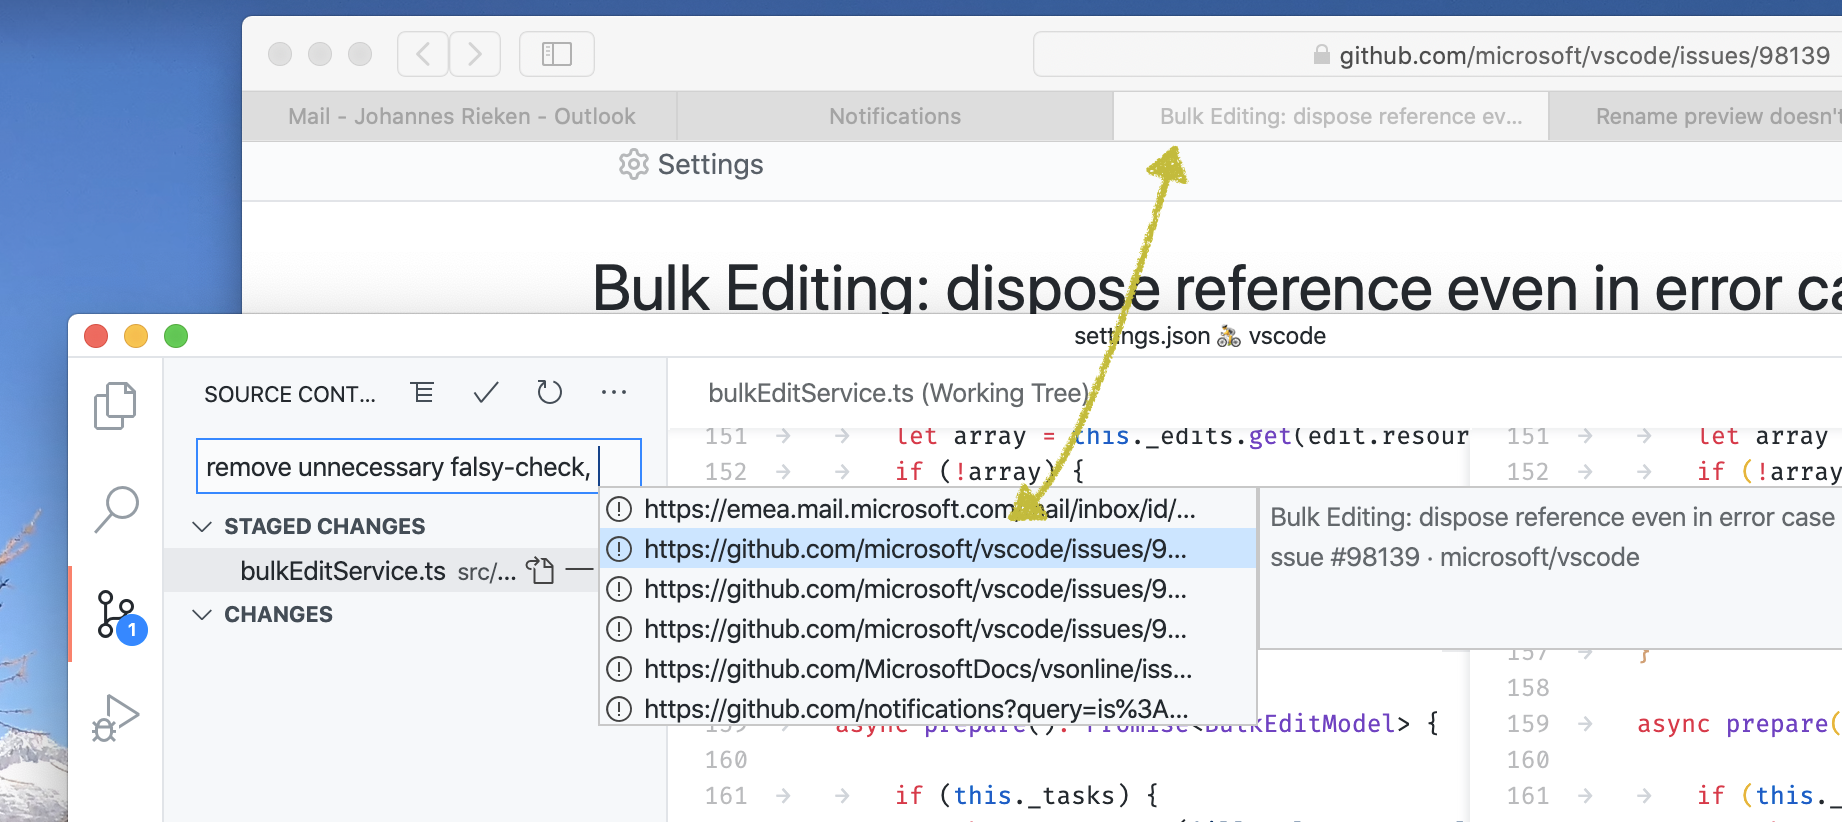
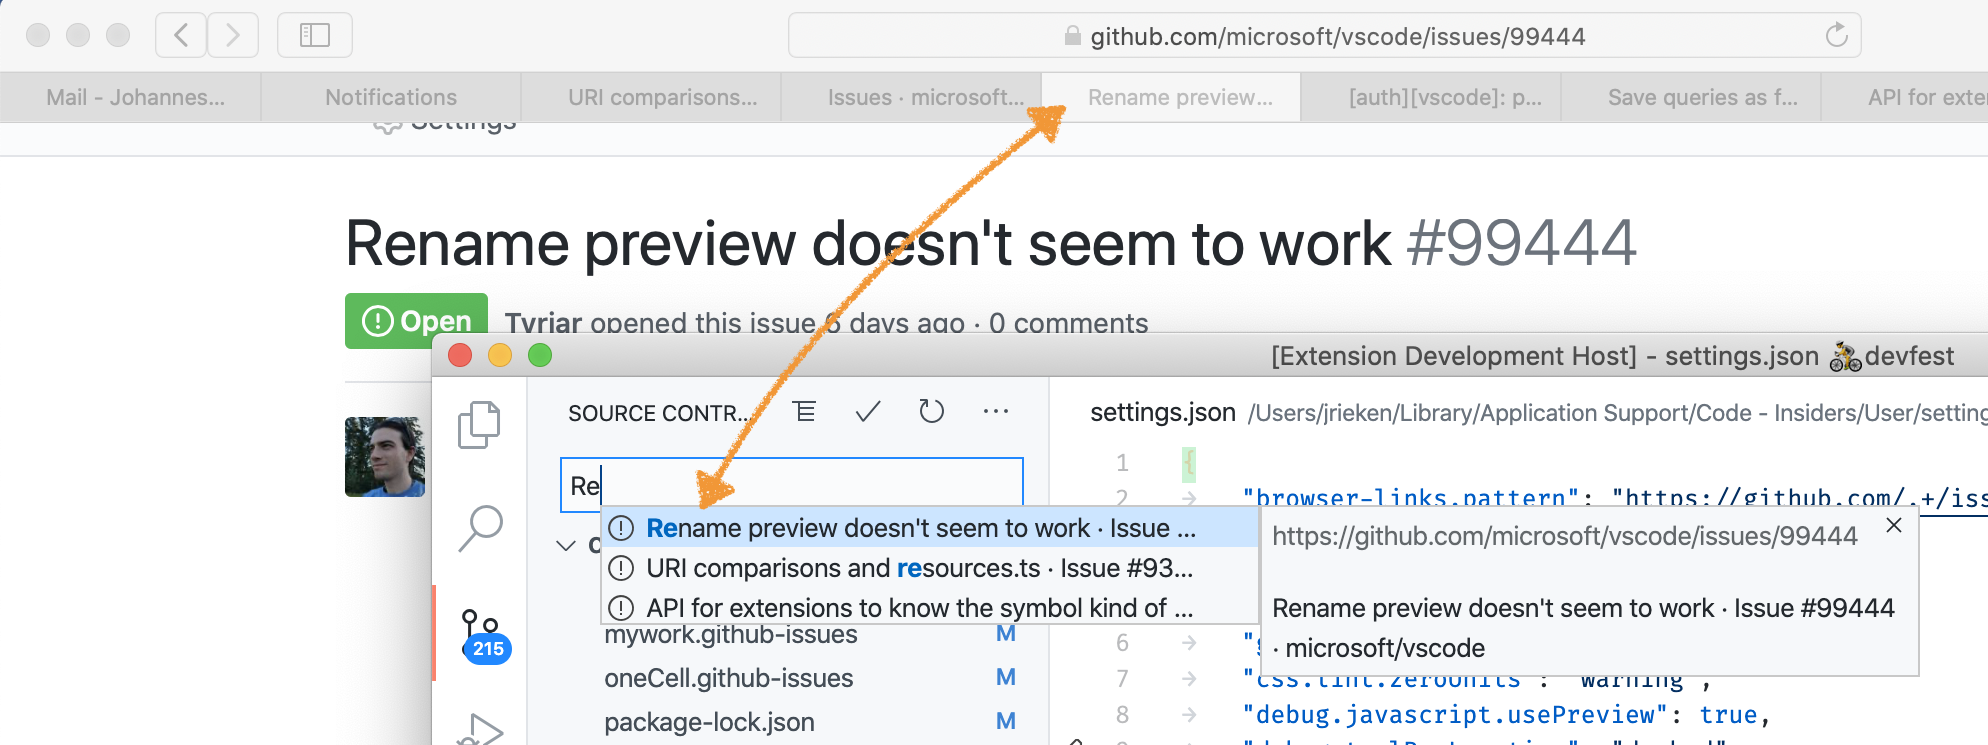
use tab title as doc, update screen shot

diff --git a/src/extension.ts b/src/extension.ts
@@ -40,6 +40,7 @@ export function activate(context: vscode.ExtensionContext) {
 				item.kind = vscode.CompletionItemKind.Issue;
 				item.insertText = tab.url;
 				item.detail = tab.url;
+				item.documentation = tab.title;
 				item.preselect = tab.current;
 				result.push(item);
 			}
